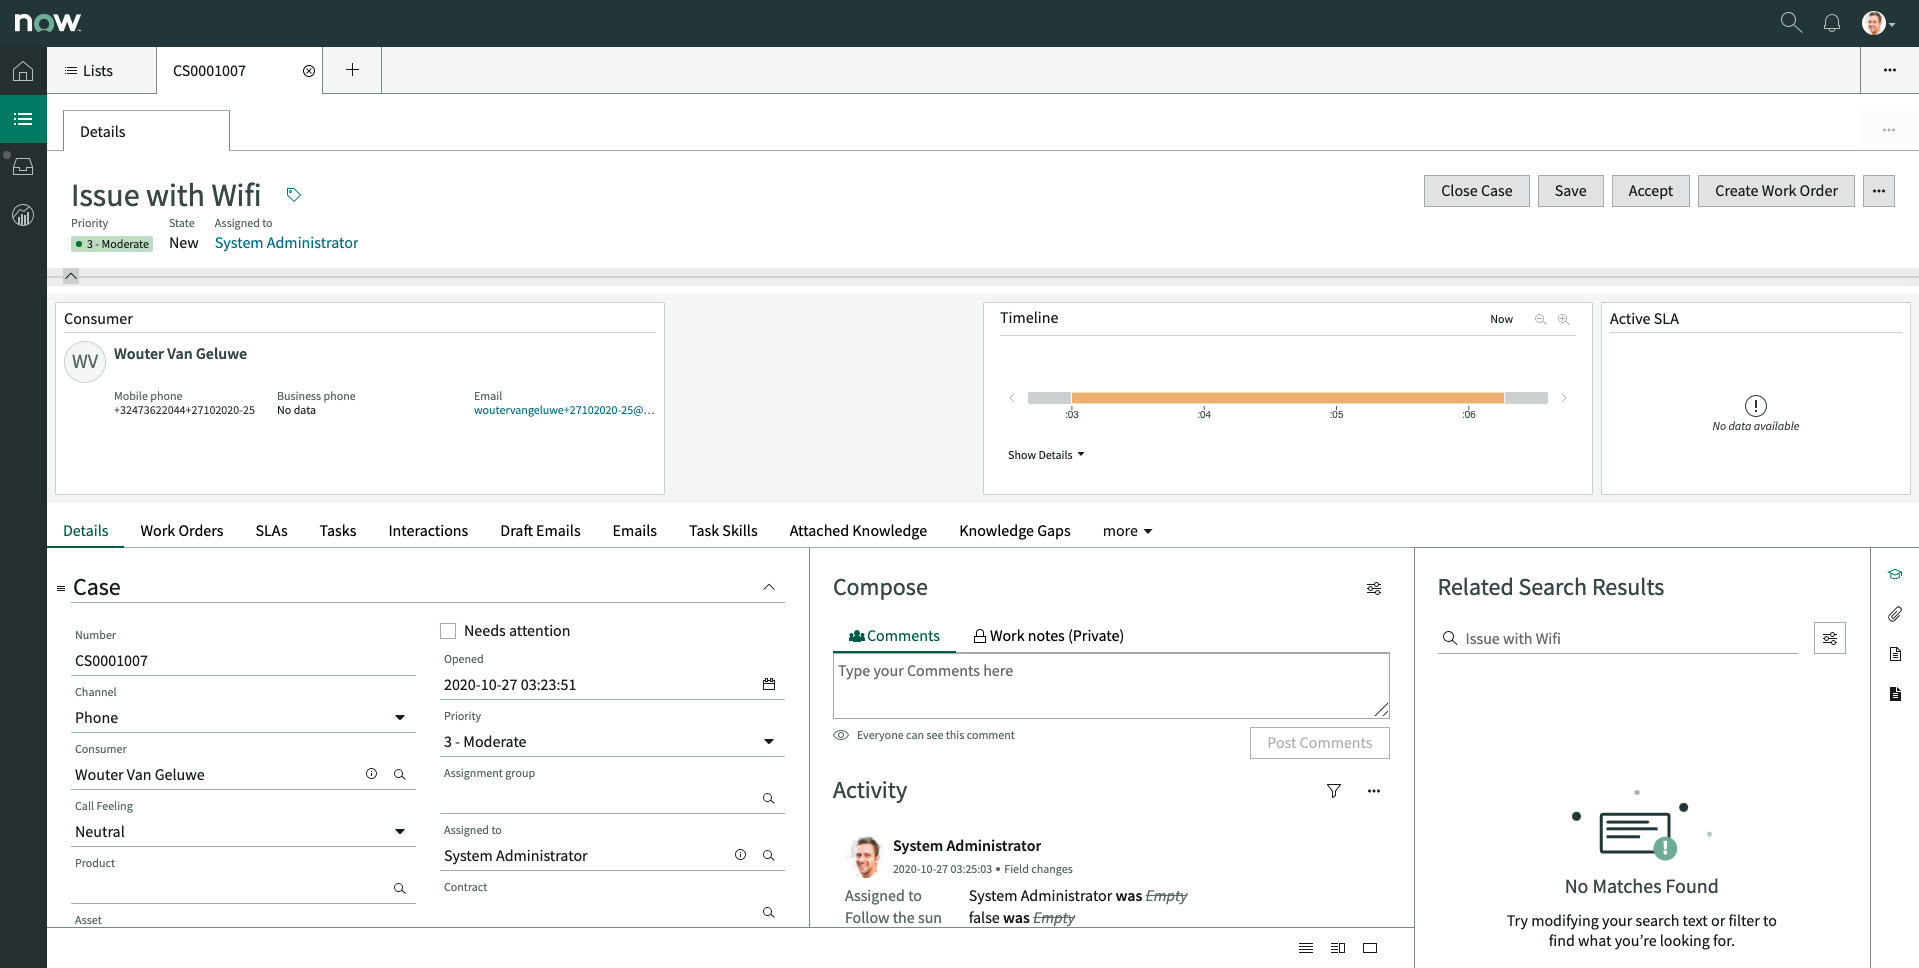
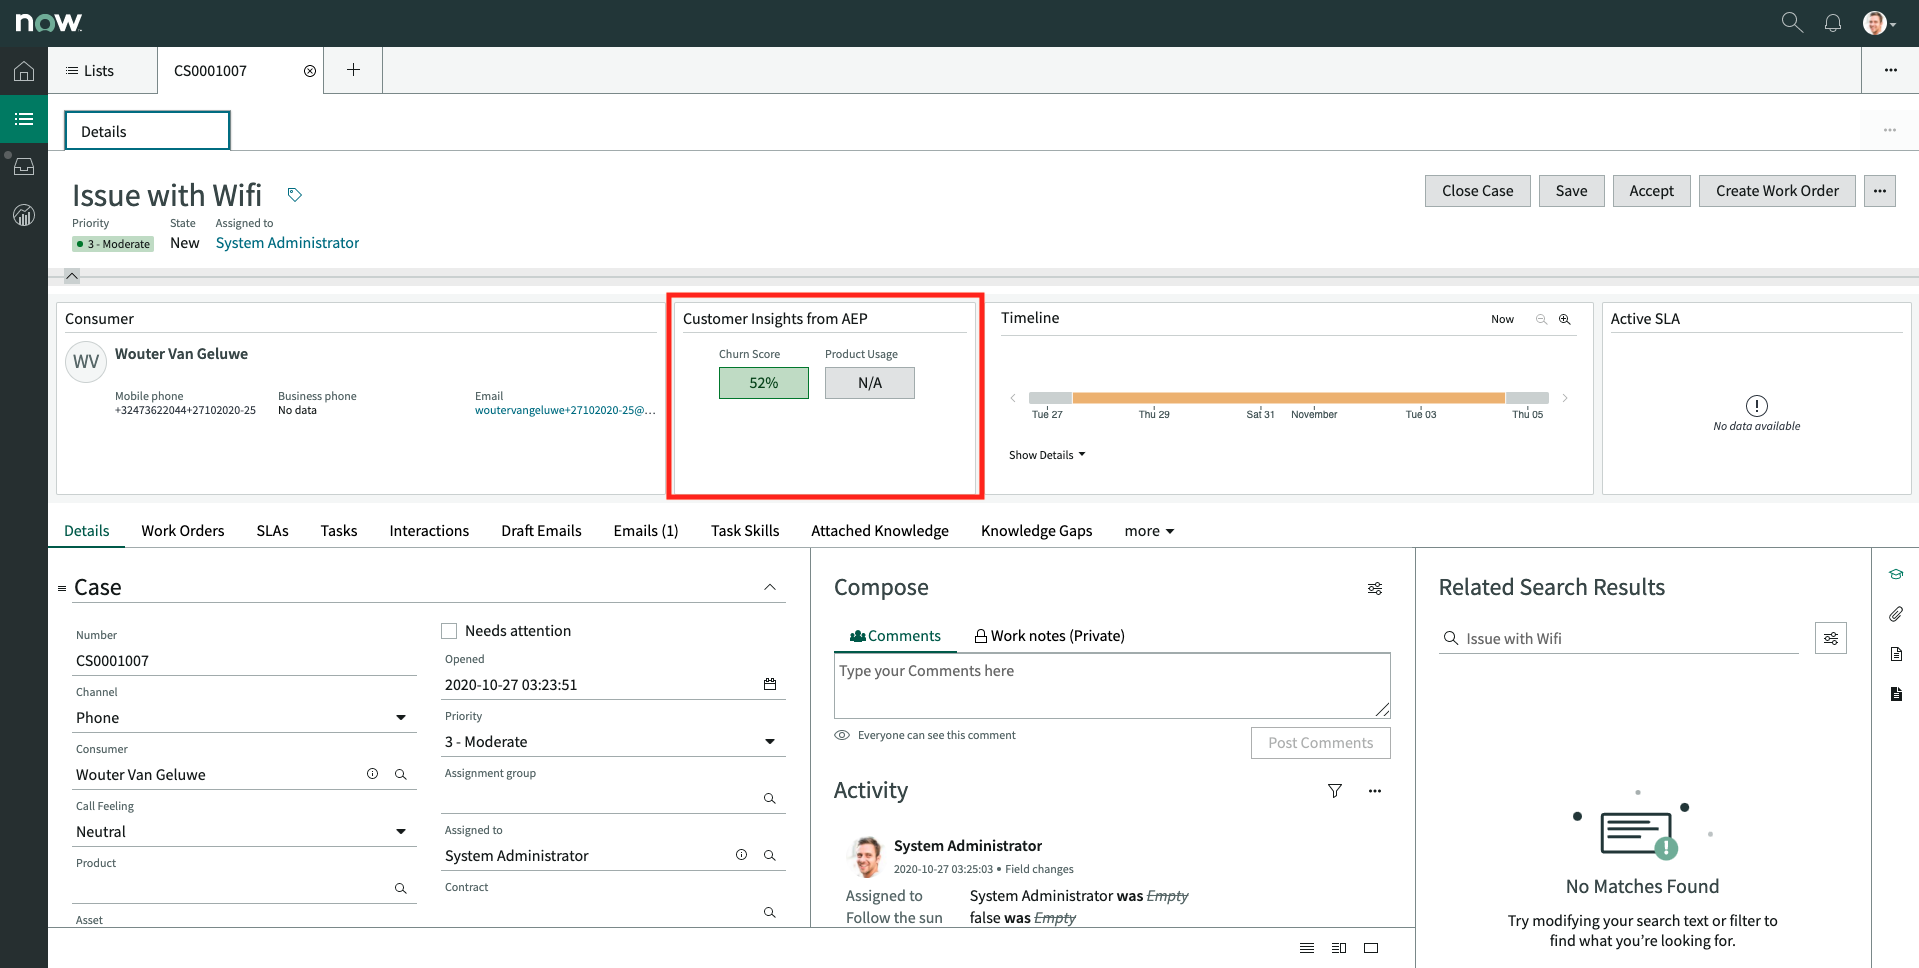
update to module 19

diff --git a/help/tutorial-comprehensive-technical/modules/module19/ex4.md b/help/tutorial-comprehensive-technical/modules/module19/ex4.md
@@ -267,6 +267,30 @@ Click **Submit**.
 
 ![ServiceNow](./images/case20.png)
 
+## 19.4.5 Enable Adobe Experience Platform Ribbon on Consumer Overview
+
+You now need to run a script to ensure that a specific component will be shown on the Consumer Case Overview.
+
+In ServiceNow, in the Filter Navigator, enter the search term **Scripts - Background**. Click **Retrieved Update Sets**.
+
+![ServiceNow](./images/scr1.png)
+
+You'l then see this.
+
+![ServiceNow](./images/scr2.png)
+
+Copy the below code and paste it in the **Run Script** input form.
+
+```javascript
+var grSULSS = new GlideRecord('sys_ux_lib_source_script'); if (grSULSS.get('5acc97d956dc670d624ef4a31f70b919')) {   grSULSS.inner_components = "223be0881a4988fcbe7112c23bf93c75,38a40eb364f0ac980c697fa64444f1e8,c817fad3b052fbd2443137d58b9b5024,3f9425191bf9c41091bf0d8cdc4bcb2e";   grSULSS.update(); }
+```
+
+![ServiceNow](./images/scr3.png)
+
+Click **Run script**. You'll then see this.
+
+![ServiceNow](./images/scr4.png)
+
 You've now defined all the required components to visualize Adobe Experience Platform data in the ServiceNow User Interface, and in the other direction, to send case data from ServiceNow into Adobe Experience Platform.
 
 Next Step: [19.5 Setup your ServiceNow Flow](./ex5.md)

diff --git a/help/tutorial-comprehensive-technical/modules/module19/ex7.md b/help/tutorial-comprehensive-technical/modules/module19/ex7.md
@@ -132,7 +132,7 @@ Finally, click **Save**.
 
 ![Launch Setup](./images/democase6.png)
 
-You'll then see this:
+You'll then see this. Please note the component **Customer Insights from AEP** which showcases the available customer churn score that was calculated in Adobe Experience Platform inside the ServiceNow user interface.
 
 ![Launch Setup](./images/democase7.png)
 
